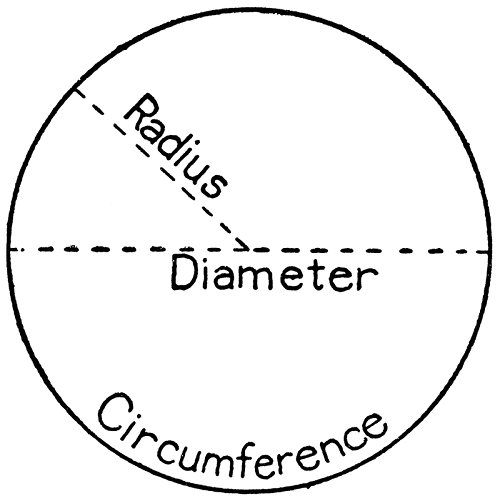
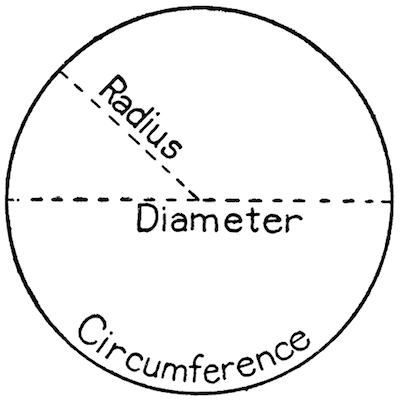
Tisying and image size adjustment

diff --git a/en/step_6.md b/en/step_6.md
@@ -2,7 +2,6 @@
 
 A typical anemometer will have three arms with scoops on the end which "catch" the wind and cause the arms to spin. If you were to dismantle one of the anemometers used by the original Oracle Weather station, you would find a small magnet attached to the underside.  
 
-https://www.argentdata.com/files/80422_datasheet.pdf
 
 ![](images/anemometer_with_magnet.png)
 
@@ -234,5 +233,5 @@ def calculate_speed(time_sec):
 ---/hint---
 ---/hints---
 
-- You'll need to alter the final `print` line of your code so that it now shows the output in the correct units. 
+- You'll need to alter the final `print` line of your code so that it now shows the output in the correct units.
 - Re-run the code and this time you should get a value closer to 2.4.

diff --git a/en/step_2.md b/en/step_2.md
@@ -14,11 +14,12 @@ The specific sensors here are chosen after considering a number of factors:
 + A Raspberry Pi.
 + A BME280 pressure, temperature and humidity sensor.
 + A DS18B20 digital thermal probe (with 1m lead)
-+ A 4.7 K Ohm resistor.
++ Two 4.7 K Ohm resistors.
 + Some 5mm pitch PCB mount screw terminal blocks
 + A breadboard and jumper wires
 + [An anemometer, wind vane and rain gauge](https://www.argentdata.com/catalog/product_info.php?products_id=145){:target="_blank"}
 + An RJ11 breakout board (optional)
++ An MCP3008 Analogue to digital Convertor Integrated Circuit.
 
 ### Software
 

diff --git a/en/step_8.md b/en/step_8.md
@@ -51,7 +51,7 @@ Vout = Vin * R2/R1 +R2
 
 So by varying the values of R1 and R2, you can reduce the input voltage Vin down to the output voltage Vout.
 
--  Use this formula so create a new Python program called `voltage-divider.py` that contains a function *voltage_divider* that calculates Vout for a given set of R1,R2 and Vin.
+-  Use this formula to create a new Python program called `voltage-divider.py` that contains a function *voltage_divider* that calculates Vout for a given set of R1,R2 and Vin.
 
 ---hints---
 ---hint---
